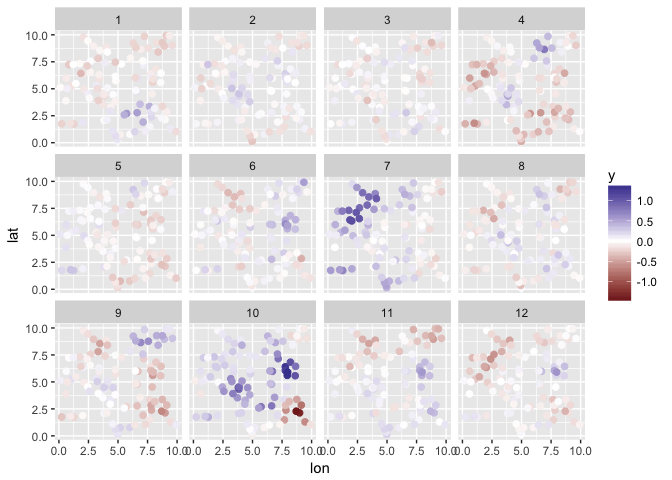
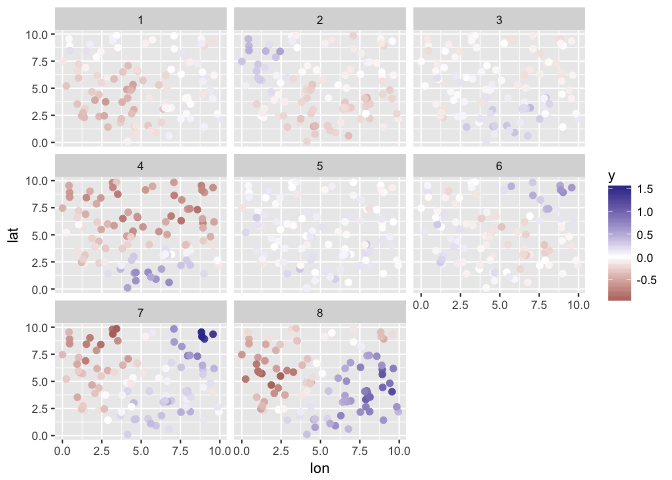
Update readme

diff --git a/README.md b/README.md
@@ -20,17 +20,17 @@ Simulate data:
 
 ``` r
 library(rrfields)
-set.seed(1)
-s <- sim_rrfield(df = 3, n_draws = 12, n_knots = 10, gp_scale = 0.5, 
+set.seed(123)
+s <- sim_rrfield(df = 3, n_draws = 8, n_knots = 10, gp_scale = 2.5, 
   gp_sigma = 0.2, sd_obs = 0.1)
 head(s$dat)
 #>   time pt           y      lon      lat
-#> 1    1  1 -0.05743592 2.655087 6.547239
-#> 2    1  2 -0.12775526 3.721239 3.531973
-#> 3    1  3  0.58242865 5.728534 2.702601
-#> 4    1  4 -0.25740965 9.082078 9.926841
-#> 5    1  5 -0.10636971 2.016819 6.334933
-#> 6    1  6 -0.02949620 8.983897 2.132081
+#> 1    1  1 -0.09253272 2.875775 5.999890
+#> 2    1  2  0.15315838 7.883051 3.328235
+#> 3    1  3 -0.49238502 4.089769 4.886130
+#> 4    1  4 -0.04127106 8.830174 9.544738
+#> 5    1  5  0.12187644 9.404673 4.829024
+#> 6    1  6  0.01634340 0.455565 8.903502
 ```
 
 ``` r
@@ -50,283 +50,20 @@ m <- rrfield(y ~ 1, data = s$dat, time = "time",
 ``` r
 pars <- c("df[1]", "gp_sigma", "sigma[1]", "gp_scale")
 print(m, pars = pars)
-#> $model
 #> Inference for Stan model: rrfield.
 #> 4 chains, each with iter=400; warmup=200; thin=1; 
 #> post-warmup draws per chain=200, total post-warmup draws=800.
 #> 
-#>                               mean se_mean   sd    2.5%     25%     50%
-#> df[1]                         4.15    0.07 1.88    2.16    2.86    3.62
-#> gp_sigma                      0.24    0.00 0.04    0.17    0.21    0.24
-#> gp_scale                      0.50    0.00 0.02    0.47    0.49    0.50
-#> B[1]                         -0.01    0.00 0.01   -0.02   -0.01   -0.01
-#> spatialEffectsKnots[1,1]     -0.16    0.00 0.05   -0.26   -0.20   -0.16
-#> spatialEffectsKnots[1,2]     -0.10    0.00 0.04   -0.18   -0.13   -0.09
-#> spatialEffectsKnots[1,3]      0.64    0.00 0.06    0.52    0.60    0.64
-#> spatialEffectsKnots[1,4]     -0.25    0.00 0.05   -0.34   -0.28   -0.25
-#> spatialEffectsKnots[1,5]     -0.04    0.00 0.05   -0.14   -0.07   -0.04
-#> spatialEffectsKnots[1,6]     -0.05    0.00 0.05   -0.14   -0.08   -0.05
-#> spatialEffectsKnots[1,7]     -0.15    0.00 0.05   -0.25   -0.19   -0.15
-#> spatialEffectsKnots[1,8]     -0.08    0.00 0.05   -0.19   -0.12   -0.08
-#> spatialEffectsKnots[1,9]      0.11    0.00 0.05    0.01    0.07    0.11
-#> spatialEffectsKnots[1,10]    -0.15    0.00 0.06   -0.27   -0.19   -0.15
-#> spatialEffectsKnots[2,1]     -0.05    0.00 0.05   -0.15   -0.09   -0.06
-#> spatialEffectsKnots[2,2]      0.26    0.00 0.04    0.18    0.23    0.26
-#> spatialEffectsKnots[2,3]      0.01    0.00 0.05   -0.10   -0.03    0.01
-#> spatialEffectsKnots[2,4]     -0.14    0.00 0.05   -0.23   -0.17   -0.14
-#> spatialEffectsKnots[2,5]     -0.02    0.00 0.05   -0.11   -0.05   -0.02
-#> spatialEffectsKnots[2,6]      0.14    0.00 0.04    0.05    0.11    0.14
-#> spatialEffectsKnots[2,7]      0.01    0.00 0.05   -0.09   -0.02    0.01
-#> spatialEffectsKnots[2,8]     -0.05    0.00 0.05   -0.13   -0.08   -0.05
-#> spatialEffectsKnots[2,9]     -0.17    0.00 0.05   -0.26   -0.20   -0.17
-#> spatialEffectsKnots[2,10]    -0.01    0.00 0.06   -0.13   -0.05   -0.02
-#> spatialEffectsKnots[3,1]     -0.04    0.00 0.05   -0.13   -0.07   -0.04
-#> spatialEffectsKnots[3,2]     -0.07    0.00 0.04   -0.15   -0.10   -0.07
-#> spatialEffectsKnots[3,3]      0.15    0.00 0.06    0.05    0.12    0.15
-#> spatialEffectsKnots[3,4]     -0.18    0.00 0.05   -0.27   -0.21   -0.18
-#> spatialEffectsKnots[3,5]      0.04    0.00 0.05   -0.06    0.00    0.04
-#> spatialEffectsKnots[3,6]     -0.15    0.00 0.04   -0.24   -0.17   -0.15
-#> spatialEffectsKnots[3,7]      0.00    0.00 0.05   -0.09   -0.04    0.00
-#> spatialEffectsKnots[3,8]     -0.03    0.00 0.05   -0.13   -0.06   -0.03
-#> spatialEffectsKnots[3,9]     -0.03    0.00 0.05   -0.14   -0.06   -0.03
-#> spatialEffectsKnots[3,10]     0.03    0.00 0.06   -0.08   -0.01    0.04
-#> spatialEffectsKnots[4,1]     -0.56    0.00 0.05   -0.66   -0.60   -0.56
-#> spatialEffectsKnots[4,2]      0.36    0.00 0.04    0.28    0.33    0.36
-#> spatialEffectsKnots[4,3]     -0.47    0.00 0.06   -0.59   -0.51   -0.47
-#> spatialEffectsKnots[4,4]     -0.08    0.00 0.05   -0.17   -0.12   -0.08
-#> spatialEffectsKnots[4,5]     -0.29    0.00 0.05   -0.39   -0.32   -0.29
-#> spatialEffectsKnots[4,6]     -0.23    0.00 0.04   -0.32   -0.26   -0.23
-#> spatialEffectsKnots[4,7]      0.65    0.00 0.05    0.55    0.61    0.65
-#> spatialEffectsKnots[4,8]     -0.03    0.00 0.05   -0.13   -0.07   -0.03
-#> spatialEffectsKnots[4,9]     -0.35    0.00 0.05   -0.44   -0.38   -0.35
-#> spatialEffectsKnots[4,10]    -0.44    0.00 0.06   -0.57   -0.49   -0.44
-#> spatialEffectsKnots[5,1]      0.09    0.00 0.05   -0.01    0.05    0.09
-#> spatialEffectsKnots[5,2]     -0.02    0.00 0.04   -0.10   -0.05   -0.02
-#> spatialEffectsKnots[5,3]     -0.04    0.00 0.05   -0.14   -0.08   -0.04
-#> spatialEffectsKnots[5,4]     -0.07    0.00 0.05   -0.16   -0.10   -0.07
-#> spatialEffectsKnots[5,5]     -0.27    0.00 0.05   -0.37   -0.30   -0.27
-#> spatialEffectsKnots[5,6]     -0.22    0.00 0.05   -0.32   -0.25   -0.22
-#> spatialEffectsKnots[5,7]      0.08    0.00 0.05   -0.02    0.04    0.08
-#> spatialEffectsKnots[5,8]     -0.04    0.00 0.05   -0.14   -0.08   -0.05
-#> spatialEffectsKnots[5,9]     -0.23    0.00 0.05   -0.32   -0.27   -0.23
-#> spatialEffectsKnots[5,10]     0.27    0.00 0.06    0.14    0.23    0.27
-#> spatialEffectsKnots[6,1]      0.12    0.00 0.05    0.02    0.08    0.12
-#> spatialEffectsKnots[6,2]     -0.02    0.00 0.04   -0.10   -0.05   -0.02
-#> spatialEffectsKnots[6,3]      0.25    0.00 0.06    0.14    0.21    0.25
-#> spatialEffectsKnots[6,4]      0.20    0.00 0.05    0.11    0.17    0.20
-#> spatialEffectsKnots[6,5]     -0.18    0.00 0.06   -0.28   -0.22   -0.18
-#> spatialEffectsKnots[6,6]      0.54    0.00 0.04    0.45    0.51    0.54
-#> spatialEffectsKnots[6,7]      0.07    0.00 0.06   -0.05    0.02    0.07
-#> spatialEffectsKnots[6,8]     -0.36    0.00 0.05   -0.46   -0.39   -0.36
-#> spatialEffectsKnots[6,9]     -0.02    0.00 0.05   -0.12   -0.05   -0.02
-#> spatialEffectsKnots[6,10]     0.10    0.00 0.06   -0.02    0.06    0.10
-#> spatialEffectsKnots[7,1]      1.13    0.00 0.05    1.03    1.10    1.14
-#> spatialEffectsKnots[7,2]      0.04    0.00 0.04   -0.05    0.01    0.04
-#> spatialEffectsKnots[7,3]      0.23    0.00 0.06    0.13    0.19    0.23
-#> spatialEffectsKnots[7,4]     -0.11    0.00 0.05   -0.20   -0.14   -0.11
-#> spatialEffectsKnots[7,5]     -0.15    0.00 0.05   -0.26   -0.19   -0.15
-#> spatialEffectsKnots[7,6]     -0.05    0.00 0.05   -0.14   -0.08   -0.05
-#> spatialEffectsKnots[7,7]      0.44    0.00 0.06    0.33    0.41    0.44
-#> spatialEffectsKnots[7,8]      1.02    0.00 0.05    0.91    0.98    1.02
-#> spatialEffectsKnots[7,9]      0.48    0.00 0.05    0.39    0.45    0.48
-#> spatialEffectsKnots[7,10]     0.66    0.00 0.06    0.54    0.62    0.66
-#> spatialEffectsKnots[8,1]     -0.22    0.00 0.05   -0.32   -0.25   -0.22
-#> spatialEffectsKnots[8,2]      0.23    0.00 0.04    0.15    0.20    0.23
-#> spatialEffectsKnots[8,3]      0.16    0.00 0.06    0.04    0.12    0.16
-#> spatialEffectsKnots[8,4]     -0.27    0.00 0.05   -0.36   -0.30   -0.27
-#> spatialEffectsKnots[8,5]      0.15    0.00 0.05    0.05    0.12    0.15
-#> spatialEffectsKnots[8,6]      0.01    0.00 0.05   -0.07   -0.02    0.01
-#> spatialEffectsKnots[8,7]      0.27    0.00 0.05    0.17    0.24    0.27
-#> spatialEffectsKnots[8,8]     -0.12    0.00 0.05   -0.23   -0.16   -0.12
-#> spatialEffectsKnots[8,9]     -0.15    0.00 0.05   -0.24   -0.18   -0.15
-#> spatialEffectsKnots[8,10]    -0.16    0.00 0.06   -0.28   -0.20   -0.16
-#> spatialEffectsKnots[9,1]     -0.04    0.00 0.05   -0.14   -0.08   -0.04
-#> spatialEffectsKnots[9,2]      0.17    0.00 0.04    0.10    0.15    0.17
-#> spatialEffectsKnots[9,3]     -0.25    0.00 0.06   -0.36   -0.29   -0.25
-#> spatialEffectsKnots[9,4]      0.40    0.00 0.05    0.31    0.37    0.40
-#> spatialEffectsKnots[9,5]     -0.51    0.00 0.05   -0.61   -0.55   -0.51
-#> spatialEffectsKnots[9,6]     -0.40    0.00 0.05   -0.49   -0.43   -0.40
-#> spatialEffectsKnots[9,7]      0.58    0.00 0.05    0.47    0.54    0.57
-#> spatialEffectsKnots[9,8]     -0.39    0.00 0.05   -0.50   -0.42   -0.39
-#> spatialEffectsKnots[9,9]      0.18    0.00 0.05    0.08    0.14    0.18
-#> spatialEffectsKnots[9,10]    -0.18    0.00 0.06   -0.30   -0.22   -0.18
-#> spatialEffectsKnots[10,1]     0.28    0.00 0.05    0.18    0.24    0.27
-#> spatialEffectsKnots[10,2]     0.91    0.00 0.04    0.83    0.88    0.91
-#> spatialEffectsKnots[10,3]     0.79    0.00 0.06    0.68    0.75    0.79
-#> spatialEffectsKnots[10,4]    -0.11    0.00 0.05   -0.21   -0.15   -0.11
-#> spatialEffectsKnots[10,5]    -1.24    0.00 0.05   -1.34   -1.27   -1.24
-#> spatialEffectsKnots[10,6]     1.38    0.00 0.05    1.29    1.34    1.38
-#> spatialEffectsKnots[10,7]     0.44    0.00 0.05    0.33    0.40    0.43
-#> spatialEffectsKnots[10,8]     0.29    0.00 0.05    0.18    0.25    0.29
-#> spatialEffectsKnots[10,9]     0.04    0.00 0.05   -0.05    0.01    0.04
-#> spatialEffectsKnots[10,10]    0.35    0.00 0.07    0.21    0.31    0.35
-#> spatialEffectsKnots[11,1]    -0.12    0.00 0.05   -0.21   -0.15   -0.12
-#> spatialEffectsKnots[11,2]     0.16    0.00 0.04    0.08    0.13    0.16
-#> spatialEffectsKnots[11,3]    -0.14    0.00 0.06   -0.25   -0.17   -0.14
-#> spatialEffectsKnots[11,4]    -0.46    0.00 0.05   -0.55   -0.49   -0.45
-#> spatialEffectsKnots[11,5]     0.33    0.00 0.05    0.22    0.29    0.33
-#> spatialEffectsKnots[11,6]     0.49    0.00 0.05    0.40    0.46    0.49
-#> spatialEffectsKnots[11,7]    -0.15    0.00 0.06   -0.26   -0.19   -0.15
-#> spatialEffectsKnots[11,8]    -0.39    0.00 0.05   -0.50   -0.43   -0.39
-#> spatialEffectsKnots[11,9]     0.21    0.00 0.05    0.12    0.17    0.21
-#> spatialEffectsKnots[11,10]    0.05    0.00 0.06   -0.08    0.01    0.05
-#> spatialEffectsKnots[12,1]    -0.49    0.00 0.05   -0.58   -0.52   -0.49
-#> spatialEffectsKnots[12,2]     0.02    0.00 0.04   -0.06   -0.01    0.02
-#> spatialEffectsKnots[12,3]    -0.12    0.00 0.06   -0.23   -0.15   -0.12
-#> spatialEffectsKnots[12,4]    -0.04    0.00 0.05   -0.14   -0.08   -0.04
-#> spatialEffectsKnots[12,5]    -0.23    0.00 0.05   -0.34   -0.27   -0.23
-#> spatialEffectsKnots[12,6]     0.39    0.00 0.04    0.31    0.36    0.39
-#> spatialEffectsKnots[12,7]    -0.19    0.00 0.06   -0.29   -0.23   -0.18
-#> spatialEffectsKnots[12,8]    -0.37    0.00 0.05   -0.48   -0.41   -0.37
-#> spatialEffectsKnots[12,9]     0.02    0.00 0.05   -0.08   -0.01    0.02
-#> spatialEffectsKnots[12,10]    0.09    0.00 0.06   -0.03    0.05    0.10
-#> sigma[1]                      0.11    0.00 0.00    0.10    0.10    0.11
-#> lp__                       2133.08    0.45 8.36 2115.35 2127.47 2133.20
-#>                                75%   97.5% n_eff Rhat
-#> df[1]                         4.88    9.17   800 1.00
-#> gp_sigma                      0.27    0.32   800 1.00
-#> gp_scale                      0.51    0.54   800 1.00
-#> B[1]                          0.00    0.01   200 1.01
-#> spatialEffectsKnots[1,1]     -0.13   -0.07   800 1.00
-#> spatialEffectsKnots[1,2]     -0.07   -0.01   800 1.00
-#> spatialEffectsKnots[1,3]      0.68    0.76   800 1.00
-#> spatialEffectsKnots[1,4]     -0.22   -0.16   800 1.00
-#> spatialEffectsKnots[1,5]      0.00    0.07   800 1.00
-#> spatialEffectsKnots[1,6]     -0.02    0.04   800 1.00
-#> spatialEffectsKnots[1,7]     -0.12   -0.06   800 1.00
-#> spatialEffectsKnots[1,8]     -0.05    0.02   800 1.00
-#> spatialEffectsKnots[1,9]      0.14    0.22   800 1.00
-#> spatialEffectsKnots[1,10]    -0.11   -0.03   800 1.00
-#> spatialEffectsKnots[2,1]     -0.02    0.04   800 1.00
-#> spatialEffectsKnots[2,2]      0.29    0.34   800 1.00
-#> spatialEffectsKnots[2,3]      0.04    0.11   800 1.00
-#> spatialEffectsKnots[2,4]     -0.11   -0.05   800 1.00
-#> spatialEffectsKnots[2,5]      0.02    0.07   800 1.00
-#> spatialEffectsKnots[2,6]      0.17    0.22   800 1.00
-#> spatialEffectsKnots[2,7]      0.05    0.12   800 1.00
-#> spatialEffectsKnots[2,8]     -0.02    0.05   800 1.00
-#> spatialEffectsKnots[2,9]     -0.13   -0.08   800 1.00
-#> spatialEffectsKnots[2,10]     0.03    0.10   800 1.00
-#> spatialEffectsKnots[3,1]     -0.01    0.05   800 1.00
-#> spatialEffectsKnots[3,2]     -0.04    0.01   800 1.00
-#> spatialEffectsKnots[3,3]      0.19    0.26   800 1.00
-#> spatialEffectsKnots[3,4]     -0.15   -0.09   800 1.00
-#> spatialEffectsKnots[3,5]      0.07    0.12   800 1.00
-#> spatialEffectsKnots[3,6]     -0.12   -0.07   800 1.00
-#> spatialEffectsKnots[3,7]      0.03    0.09   800 1.00
-#> spatialEffectsKnots[3,8]      0.01    0.07   800 1.00
-#> spatialEffectsKnots[3,9]      0.00    0.07   800 1.00
-#> spatialEffectsKnots[3,10]     0.08    0.15   800 1.00
-#> spatialEffectsKnots[4,1]     -0.53   -0.47   800 1.00
-#> spatialEffectsKnots[4,2]      0.39    0.44   800 1.00
-#> spatialEffectsKnots[4,3]     -0.43   -0.35   800 1.00
-#> spatialEffectsKnots[4,4]     -0.05    0.01   800 1.00
-#> spatialEffectsKnots[4,5]     -0.26   -0.19   800 1.00
-#> spatialEffectsKnots[4,6]     -0.20   -0.14   800 1.00
-#> spatialEffectsKnots[4,7]      0.68    0.75   800 1.00
-#> spatialEffectsKnots[4,8]      0.00    0.08   800 1.00
-#> spatialEffectsKnots[4,9]     -0.32   -0.25   800 1.00
-#> spatialEffectsKnots[4,10]    -0.40   -0.32   800 1.00
-#> spatialEffectsKnots[5,1]      0.12    0.18   800 1.00
-#> spatialEffectsKnots[5,2]      0.01    0.06   800 1.00
-#> spatialEffectsKnots[5,3]      0.00    0.06   800 1.00
-#> spatialEffectsKnots[5,4]     -0.05    0.02   800 1.00
-#> spatialEffectsKnots[5,5]     -0.23   -0.17   800 1.00
-#> spatialEffectsKnots[5,6]     -0.19   -0.14   800 1.00
-#> spatialEffectsKnots[5,7]      0.11    0.18   800 1.00
-#> spatialEffectsKnots[5,8]     -0.01    0.06   800 1.00
-#> spatialEffectsKnots[5,9]     -0.20   -0.14   800 1.00
-#> spatialEffectsKnots[5,10]     0.31    0.39   800 1.00
-#> spatialEffectsKnots[6,1]      0.15    0.21   800 1.00
-#> spatialEffectsKnots[6,2]      0.00    0.05   800 1.00
-#> spatialEffectsKnots[6,3]      0.29    0.37   800 1.00
-#> spatialEffectsKnots[6,4]      0.24    0.31   800 1.00
-#> spatialEffectsKnots[6,5]     -0.14   -0.05   800 1.00
-#> spatialEffectsKnots[6,6]      0.57    0.63   800 1.00
-#> spatialEffectsKnots[6,7]      0.10    0.18   800 1.00
-#> spatialEffectsKnots[6,8]     -0.33   -0.27   800 1.00
-#> spatialEffectsKnots[6,9]      0.01    0.07   800 1.00
-#> spatialEffectsKnots[6,10]     0.14    0.22   800 1.00
-#> spatialEffectsKnots[7,1]      1.17    1.23   800 1.00
-#> spatialEffectsKnots[7,2]      0.07    0.12   800 1.00
-#> spatialEffectsKnots[7,3]      0.27    0.35   800 1.00
-#> spatialEffectsKnots[7,4]     -0.07   -0.01   800 1.00
-#> spatialEffectsKnots[7,5]     -0.12   -0.05   800 1.00
-#> spatialEffectsKnots[7,6]     -0.02    0.04   800 1.00
-#> spatialEffectsKnots[7,7]      0.48    0.55   618 1.00
-#> spatialEffectsKnots[7,8]      1.06    1.12   800 1.00
-#> spatialEffectsKnots[7,9]      0.51    0.57   800 1.00
-#> spatialEffectsKnots[7,10]     0.70    0.79   800 1.00
-#> spatialEffectsKnots[8,1]     -0.19   -0.13   800 1.00
-#> spatialEffectsKnots[8,2]      0.25    0.30   800 1.00
-#> spatialEffectsKnots[8,3]      0.19    0.27   800 1.00
-#> spatialEffectsKnots[8,4]     -0.24   -0.17   800 1.00
-#> spatialEffectsKnots[8,5]      0.19    0.26   800 1.00
-#> spatialEffectsKnots[8,6]      0.05    0.10   800 1.00
-#> spatialEffectsKnots[8,7]      0.31    0.38   800 1.00
-#> spatialEffectsKnots[8,8]     -0.09   -0.02   800 1.00
-#> spatialEffectsKnots[8,9]     -0.11   -0.06   800 1.00
-#> spatialEffectsKnots[8,10]    -0.12   -0.04   800 1.00
-#> spatialEffectsKnots[9,1]     -0.01    0.06   800 1.00
-#> spatialEffectsKnots[9,2]      0.20    0.25   800 1.00
-#> spatialEffectsKnots[9,3]     -0.21   -0.14   800 1.00
-#> spatialEffectsKnots[9,4]      0.44    0.50   800 1.00
-#> spatialEffectsKnots[9,5]     -0.47   -0.41   800 1.00
-#> spatialEffectsKnots[9,6]     -0.37   -0.31   800 1.00
-#> spatialEffectsKnots[9,7]      0.61    0.68   800 1.00
-#> spatialEffectsKnots[9,8]     -0.36   -0.28   800 1.00
-#> spatialEffectsKnots[9,9]      0.21    0.27   800 1.00
-#> spatialEffectsKnots[9,10]    -0.14   -0.05   800 1.00
-#> spatialEffectsKnots[10,1]     0.31    0.38   800 1.00
-#> spatialEffectsKnots[10,2]     0.94    0.99   800 1.00
-#> spatialEffectsKnots[10,3]     0.83    0.91   800 1.00
-#> spatialEffectsKnots[10,4]    -0.08   -0.02   800 1.00
-#> spatialEffectsKnots[10,5]    -1.20   -1.14   800 1.00
-#> spatialEffectsKnots[10,6]     1.41    1.47   800 1.00
-#> spatialEffectsKnots[10,7]     0.47    0.55   800 1.00
-#> spatialEffectsKnots[10,8]     0.32    0.39   800 1.00
-#> spatialEffectsKnots[10,9]     0.08    0.15   800 1.00
-#> spatialEffectsKnots[10,10]    0.40    0.48   800 1.00
-#> spatialEffectsKnots[11,1]    -0.08   -0.03   800 1.00
-#> spatialEffectsKnots[11,2]     0.18    0.24   800 1.00
-#> spatialEffectsKnots[11,3]    -0.10   -0.02   800 1.00
-#> spatialEffectsKnots[11,4]    -0.42   -0.36   800 1.00
-#> spatialEffectsKnots[11,5]     0.36    0.43   800 1.00
-#> spatialEffectsKnots[11,6]     0.52    0.57   800 1.00
-#> spatialEffectsKnots[11,7]    -0.11   -0.04   800 1.00
-#> spatialEffectsKnots[11,8]    -0.36   -0.29   800 1.00
-#> spatialEffectsKnots[11,9]     0.24    0.30   800 1.00
-#> spatialEffectsKnots[11,10]    0.10    0.17   800 1.00
-#> spatialEffectsKnots[12,1]    -0.46   -0.40   800 1.01
-#> spatialEffectsKnots[12,2]     0.05    0.10   800 1.00
-#> spatialEffectsKnots[12,3]    -0.08    0.00   800 1.00
-#> spatialEffectsKnots[12,4]    -0.01    0.05   800 1.00
-#> spatialEffectsKnots[12,5]    -0.20   -0.14   800 1.00
-#> spatialEffectsKnots[12,6]     0.42    0.48   800 1.00
-#> spatialEffectsKnots[12,7]    -0.15   -0.07   800 1.00
-#> spatialEffectsKnots[12,8]    -0.34   -0.27   800 1.00
-#> spatialEffectsKnots[12,9]     0.05    0.11   800 1.00
-#> spatialEffectsKnots[12,10]    0.14    0.21   800 1.00
-#> sigma[1]                      0.11    0.11   800 1.00
-#> lp__                       2138.53 2148.67   347 1.02
+#>          mean se_mean   sd 2.5%  25%  50%  75% 97.5% n_eff Rhat
+#> df[1]    3.49    0.13 1.83 2.03 2.37 2.96 3.95  8.37   193 1.02
+#> gp_sigma 0.22    0.00 0.05 0.13 0.18 0.21 0.25  0.31   280 1.01
+#> sigma[1] 0.10    0.00 0.00 0.10 0.10 0.10 0.10  0.11   800 1.00
+#> gp_scale 2.48    0.00 0.11 2.28 2.40 2.47 2.56  2.70   502 1.01
 #> 
-#> Samples were drawn using NUTS(diag_e) at Sat Nov 19 19:01:26 2016.
+#> Samples were drawn using NUTS(diag_e) at Wed Nov 23 14:30:18 2016.
 #> For each parameter, n_eff is a crude measure of effective sample size,
 #> and Rhat is the potential scale reduction factor on split chains (at 
 #> convergence, Rhat=1).
-#> 
-#> $knots
-#>             lon       lat
-#>  [1,] 1.8621760 6.4279549
-#>  [2,] 3.8003518 4.4628435
-#>  [3,] 6.6200508 2.7775593
-#>  [4,] 8.7626921 9.2730209
-#>  [5,] 8.6969085 2.2865814
-#>  [6,] 7.7732070 6.0530345
-#>  [7,] 6.9273156 8.6454495
-#>  [8,] 3.4668349 8.5613166
-#>  [9,] 5.1863426 0.7527575
-#> [10,] 0.9946616 1.8086636
 ```
 
 Plot:
